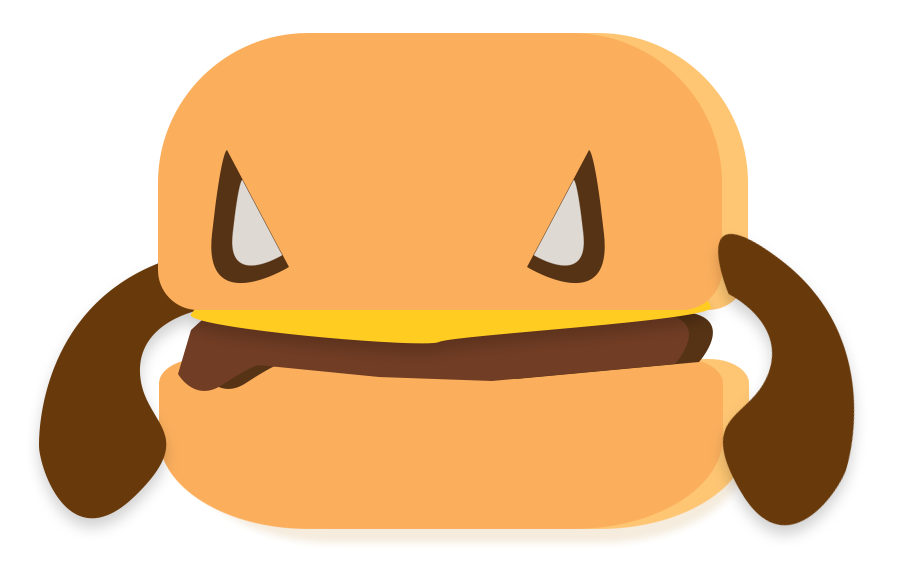
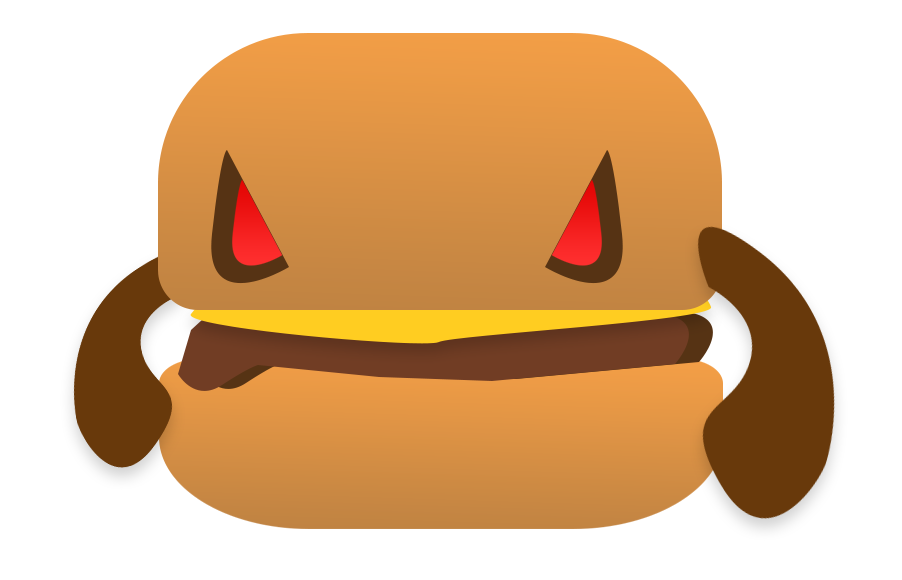
fix health?

diff --git a/public/css/spicy.css b/public/css/spicy.css
@@ -22,7 +22,6 @@ body{
     color: #e0dfdc;
     letter-spacing: .1em;
     text-shadow:
-      0 -2px 0 #fff,
       0 -1px 0 #2e2e2e,
       0 1px 0 #2c2c2c,
       0 2px 0 #2a2a2a,
@@ -53,7 +52,6 @@ body{
     color: #e0dfdc;
     letter-spacing: .1em;
     text-shadow:
-      0 -2px 0 #fff,
       0 -1px 0 #2e2e2e,
       0 1px 0 #2c2c2c,
       0 2px 0 #2a2a2a,
@@ -84,7 +82,6 @@ body{
     color: #e0dfdc;
     letter-spacing: .1em;
     text-shadow:
-      0 -2px 0 #fff,
       0 -1px 0 #2e2e2e,
       0 1px 0 #2c2c2c,
       0 2px 0 #2a2a2a,
@@ -137,18 +134,13 @@ body{
   border-radius: 10px;
   border: 5px;
   border-color: white;
-  box-shadow:  5px 5px 10px #363636,
-               -5px -5px 10px #505050;
-  box-shadow: inset 0px 0px 5px #000;
+
 }
 .monster_hp,
 .xp_bar,
 .hp_bar{
-  box-shadow:  5px 5px 10px #363636,
-               -5px -5px 10px #505050;
-  box-shadow: inset 0px 0px 5px #000;
-  background: rgb(36,93,33);
-  background: linear-gradient(0deg, rgba(36,93,33,1) 0%, rgba(32,128,33,1) 100%);
+
+  background: #2abb2a;
 }
 
 .monster-hp{
@@ -167,14 +159,12 @@ body{
   height: 300px;
   width: 300px;
   text-align: center;
-  background-repeat: repeat;
-  background:url('/images/battle-bg-3.gif') center;
+background-position: right; background-repeat: repeat;
+  background:url('/images/battle-bg-8.png') center;
   background-blend-mode:hard-light;
   border-radius: 20px;
   border: none;
-  box-shadow:  5px 5px 10px #363636,
-               -5px -5px 10px #505050;
-  box-shadow: inset 0px 0px 15px #000;
+
 }
 .window_frame{
   margin: 30px auto 10px auto;
@@ -191,18 +181,19 @@ body{
 
 .character_battle_placement{
     /* Character */
-    height: 120px;
-    width: 90px;
-    margin-top: 14px;
+    height: 140px;
+    width: 85px;
+    margin-top: 10px;
     margin-right: 170px;
 
 }
 .monster_battle_placement{
     /* Character */
-    height: 120px;
-    width: 140px;
-    margin-left: 120px;
-    margin-top: 10px;
+    height: 100px;
+    width: 110px;
+    margin-left: 100px;
+    margin-top: 0px;
+    object-position: 10px 10px;
 
 }
 
@@ -212,8 +203,8 @@ body{
   margin: 10px;
   border: none;
   border-radius: 33px;
-  background: rgb(69,69,69);
-  background: linear-gradient(0deg, rgba(69,69,69,1) 0%, rgba(120,120,120,1) 100%);
+  background: rgb(255,0,0);
+background: linear-gradient(0deg, rgba(255,0,0,1) 0%, rgba(217,98,18,1) 100%);
   box-shadow:  8px 8px 16px #2B2B2B,
                -8px -8px 16px #313131;
 
@@ -223,7 +214,7 @@ body{
   background: linear-gradient(0deg, rgba(74,74,74,1) 0%, rgba(67,67,67,1) 100%);
   text-shadow: 0px 2px 1px black;
 
-  color: darkorange;
+  color: rgb(255,0,0);;
 }
 
 .exercise-button{
@@ -232,8 +223,8 @@ body{
   margin: 10px 0 10px 0;
   border: none;
   border-radius: 40px;
-  background: rgb(43,43,43);
-  background: linear-gradient(0deg, rgba(43,43,43,1) 0%, rgba(57,57,57,1) 100%);
+  background: rgb(255,0,0);
+background: linear-gradient(0deg, rgba(255,0,0,1) 0%, rgba(217,98,18,1) 100%);
   box-shadow:  5px 5px 10px #363636,
                -5px -5px 10px #505050;
 }
@@ -242,15 +233,15 @@ body{
   background: linear-gradient(0deg, rgba(74,74,74,1) 0%, rgba(67,67,67,1) 100%);
   text-shadow: 0px 2px 1px black;
 
-  color: darkorange;
+  color: rgb(255,0,0);
 }
 .profile-button{
   border:none;
   font-weight: bold;
   font-size: 15px;
   border-radius: 33px;
-  background: rgb(69,69,69);
-  background: linear-gradient(0deg, rgba(69,69,69,1) 0%, rgba(120,120,120,1) 100%);
+  background: rgb(255,0,0);
+  background: linear-gradient(0deg, rgba(255,0,0,1) 0%, rgba(255,132,0,1) 100%);
   box-shadow:  8px 8px 16px #2B2B2B,
                -8px -8px 16px #313131;
 }
@@ -258,7 +249,7 @@ body{
   background: rgb(74,74,74);
   background: linear-gradient(0deg, rgba(74,74,74,1) 0%, rgba(67,67,67,1) 100%);
   text-shadow: 0px 2px 1px black;
-  color: darkorange;
+  color: rgb(255,0,0);
 }
 
 .alt-profile-button{
@@ -275,7 +266,7 @@ body{
   background: rgb(74,74,74);
   background: linear-gradient(0deg, rgba(74,74,74,1) 0%, rgba(67,67,67,1) 100%);
   text-shadow: 0px 2px 1px black;
-  color: darkorange;
+  color: rgb(255,0,0);
 }
 
 .battle-button{
@@ -283,8 +274,8 @@ body{
   margin: 10px;
   border: none;
   border-radius: 33px;
-  background: rgb(69,69,69);
-  background: linear-gradient(0deg, rgba(69,69,69,1) 0%, rgba(120,120,120,1) 100%);
+  background: rgb(255,0,0);
+  background: linear-gradient(0deg, rgba(255,0,0,1) 0%, rgba(255,132,0,1) 100%);
   box-shadow:  8px 8px 16px #2B2B2B,
                -8px -8px 16px #313131;
 }
@@ -293,7 +284,7 @@ body{
   background: rgb(74,74,74);
   background: linear-gradient(0deg, rgba(74,74,74,1) 0%, rgba(67,67,67,1) 100%);
   text-shadow: 0px 2px 1px black;
-  color: darkorange;
+  color: rgb(255,0,0);
 }
 
 .profile-field{
@@ -313,14 +304,14 @@ body{
   border-right-color: darkgray;
   border-top-color: darkgray;
   border-radius: 10px;
-  color: darkorange;
+  color: rgba(255,132,0,1);
   box-shadow:  8px 8px 16px #2B2B2B,
                -8px -8px 16px #313131;
 
 }
 .profile-field:focus{
   background: darkgray;
-  border-bottom-color: darkorange;
+  border-bottom-color: rgba(255,132,0,1);
   color: black;
 
 }
@@ -368,6 +359,7 @@ box-shadow:  5px 5px 10px #363636,
                -5px -5px 10px #505050;
 
 }
+
 .exercise-container{
   margin: 10px auto 0 auto;
   width: 325px;
@@ -446,13 +438,13 @@ border-left-color: darkgray;
 border-right-color: darkgray;
 border-top-color: darkgray;
 border-radius: 10px;
-color: darkorange;
+color: rgba(255,132,0,1);
 box-shadow:  5px 5px 10px #363636,
              -5px -5px 10px #505050;
 }
 .login-field:focus{
   background: darkgray;
-  border-bottom-color: darkorange;
+  border-bottom-color: rgba(255,132,0,1);
 
   color: black;
 

diff --git a/public/js/profile.js b/public/js/profile.js
@@ -52,10 +52,10 @@ function changeSex2( variable){
 
 function callbackFunc(request,response){
     $("#name").text(request.info.name);
-		$("#age").html('<div>Age: <div style="color: darkorange; display: inline-block">' + request.info.age +'</div> </div>');
-		$("#sex").html('<div>Sex: <div style="color: darkorange; display: inline-block">' + request.info.sex +'</div> </div>');
-		$("#weight").html('<div>Weight: <div style="color: darkorange; display: inline-block">' + request.info.weight +' kg</div> </div>');
-		$("#height").html('<div>Height: <div style="color: darkorange; display: inline-block">' + request.info.height +' cm</div> </div>');
+		$("#age").html('<div>Age: <div style="color: #ff5100 ; display: inline-block">' + request.info.age +'</div> </div>');
+		$("#sex").html('<div>Sex: <div style="color: #ff5100 ; display: inline-block">' + request.info.sex +'</div> </div>');
+		$("#weight").html('<div>Weight: <div style="color: #ff5100 ; display: inline-block">' + request.info.weight +' kg</div> </div>');
+		$("#height").html('<div>Height: <div style="color: #ff5100 ; display: inline-block">' + request.info.height +' cm</div> </div>');
 }
 function callbackFunc1(request,response){
 }

diff --git a/routes/loginAlt.js b/routes/loginAlt.js
@@ -27,7 +27,7 @@ exports.login = function(request, response){
   		}
 
 	  }
-  if( password == ""){
+  if( email == "" || password == ""){
           console.log("no password");
           response.render('loginAlt', data);
   }
@@ -42,7 +42,7 @@ exports.login = function(request, response){
 					"weight":0,
 					"height":0,
 					"age": 0,
-					"sex": "N/A",
+					"sex": "",
 					"experience": 0,
 					"calories_burnt_total":0,
 					"calories_burnt_current":0,

diff --git a/public/js/fight.js b/public/js/fight.js
@@ -19,7 +19,7 @@ function initializePage() {
 function updateHealth(){
 	var health_temp = health;
 	console.log("health at this point is: " +health);
-	$("#monster_hp").html('<div style="color: white;font-weight: bold">'+health_temp.toFixed(2)+'%</div>');
+	// $("#monster_hp").html('<div style="color: white;font-weight: bold">'+health_temp.toFixed(2)+'%</div>');
 
 	console.log("health at this point is: " +health);
   $("#monster_hp").css("width", health+"%");

diff --git a/routes/add.js b/routes/add.js
@@ -42,7 +42,7 @@ exports.SignIn = function(request, response) {
 									"weight":0,
 									"height":0,
 									"age": 0,
-									"sex": "Male",
+									"sex": "",
 										"c_hp":100,
 										"m_hp":100,
 										"level": 1,

diff --git a/routes/login.js b/routes/login.js
@@ -42,7 +42,7 @@ exports.login = function(request, response){
 					"weight":0,
 					"height":0,
 					"age": 0,
-					"sex": "N/A",
+					"sex": "",
 					"experience": 0,
 					"calories_burnt_total":0,
 					"calories_burnt_current":0,
